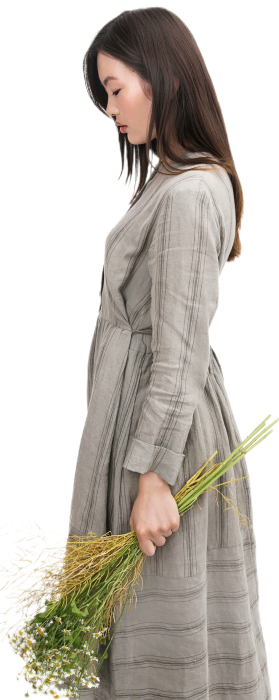
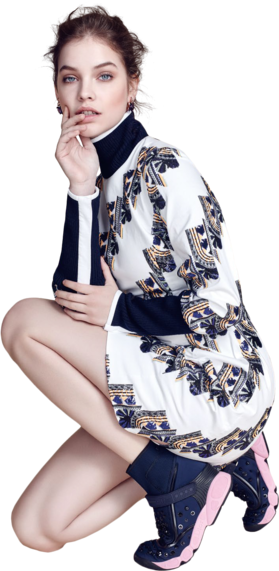
sonn

diff --git a/src/components/Header.js b/src/components/Header.js
@@ -5,7 +5,7 @@ import { CartContext } from '../contexts/CartContext';
 import { Link } from 'react-router-dom';
 import Logo from '../img/logo.svg'
 
-const Header = () => {
+const Header = ({theme, setTheme, handleThemeSwitch}) => {
   const [isActive, setIsActive] = useState(false)
   const {isOpen, setIsOpen} = useContext(SidebarContext)
   const {itemAmount} = useContext(CartContext)
@@ -15,20 +15,53 @@ const Header = () => {
     })
   })
   return (
-    <header className={`${isActive ? 'bg-white py-4 shadow-md ' : 'bg-none py-6'} fixed w-full z-10 transition-all `}>
+    <header className={`${isActive ? 'bg-gray-100 dark:bg-gray-900 py-4 shadow-md ' : 'bg-none py-6'} fixed w-full z-10 transition-all `}>
     <div className='container mx-auto flex items-center justify-between h-full'>
     <Link to={'/'}>
         <div >
           <img className='w-[40px] md:w-[45px]  lg:w-[50px] xl:w-[40px]  xxxl:w-[60px] ml-1' src={Logo} alt="" />
         </div>
       </Link>
+      <div>
+      <button onClick={handleThemeSwitch}>
+                        {theme === "light" ? 
+                        <svg
+                        v-if="dark"
+                        xmlns="http://www.w3.org/2000/svg"
+                        class="h-4.5 w-5 md:h-9.6 md:w-10"
+                        viewBox="0 0 20 20"
+                        fill="black"
+                      >
+                        <path
+                          d="M17.293 13.293A8 8 0 016.707 2.707a8.001 8.001 0 1010.586 10.586z"
+                        />
+                      </svg>
+                      :
+                      <svg
+                      v-else
+                      xmlns="http://www.w3.org/2000/svg"
+                      class="h-4.5 w-5  md:h-9.6 md:w-10"
+                      viewBox="0 0 20 20"
+                      fill="white"
+                    >
+                      <path
+                        fill-rule="evenodd"
+                        d="M10 2a1 1 0 011 1v1a1 1 0 11-2 0V3a1 1 0 011-1zm4 8a4 4 0 11-8 0 4 4 0 018 0zm-.464 4.95l.707.707a1 1 0 001.414-1.414l-.707-.707a1 1 0 00-1.414 1.414zm2.12-10.607a1 1 0 010 1.414l-.706.707a1 1 0 11-1.414-1.414l.707-.707a1 1 0 011.414 0zM17 11a1 1 0 100-2h-1a1 1 0 100 2h1zm-7 4a1 1 0 011 1v1a1 1 0 11-2 0v-1a1 1 0 011-1zM5.05 6.464A1 1 0 106.465 5.05l-.708-.707a1 1 0 00-1.414 1.414l.707.707zm1.414 8.486l-.707.707a1 1 0 01-1.414-1.414l.707-.707a1 1 0 011.414 1.414zM4 11a1 1 0 100-2H3a1 1 0 000 2h1z"
+                        clip-rule="evenodd"
+                      />
+                    </svg>
+                    }
+   
   
+  </button>
+      </div>
       <div onClick={() => setIsOpen(!isOpen)} className='cursor-pointer flex relative mr-3'>
-        <BsBag  className='text-[30px] md:text-[30px] lg:text-[30px] xl:text-[30px]  xxxl:text-[60px]' />
-        <div className='bg-red-500 absolute -right-1 sm:-right-1 md:-right-1 lg:-right-1 xl:-right-1 -bottom-2 xxl:-bottom-1 xxxl:-bottom-2 text-[12px] w-[18px] h-[18px] text-white rounded-full flex justify-center items-center xl:text-[16px] xl:w-[20px] xl:h-[20px]  xxxl:text-[28px] xxxl:w-[34px] xxxl:h-[34px]'>
+        <BsBag  className='text-[30px] md:text-[50px] lg:text-[50px] xl:text-[30px]  xxxl:text-[60px] dark:text-white' />
+        <div className='bg-red-500 absolute -right-1 sm:-right-1 md:-right-1 lg:-right-1 xl:-right-1 -bottom-2 xxl:-bottom-1 xxxl:-bottom-2 text-[12px] md:text-[22px] lg:text-[22px] w-[18px] h-[18px] md:w-[30px] md:h-[30px] lg:w-[23px] lg:h-[23px] text-white rounded-full flex justify-center items-center xl:text-[16px] xl:w-[20px] xl:h-[20px]  xxxl:text-[28px] xxxl:w-[34px] xxxl:h-[34px]'>
         {itemAmount}
         </div>
       </div>
+    
     </div>
     </header>
   )

diff --git a/src/contexts/ProductDetails.js b/src/contexts/ProductDetails.js
@@ -2,7 +2,8 @@ import React, { useContext } from 'react';
 import { useParams } from 'react-router-dom';
 import { ProductContext } from '../pages/ProductContext';
 import { CartContext } from './CartContext';
-
+import { MapInteractionCSS } from 'react-map-interaction';
+import { toast } from 'react-toastify';
 const ProductDetails = () => {
   const {id} = useParams()
   const {products} = useContext(ProductContext)
@@ -14,20 +15,27 @@ const ProductDetails = () => {
     return <section className='h-screen flex justify-center items-center'>Loading...</section>
   }
   const {title, price, description, image} = product
-  return <section className='my-32 xl:my-0 lg:py-32  h-screen flex items-center'>
-    <div className="container mx-auto">
-    <div className='flex flex-col lg:flex-row items-center'>
-    <div className='flex flex-1 justify-center items-center mb-8 lg:mb-0'>
-      <img className='max-w-[200px] lg:max-w-sm' src={image} alt="" />
+  return <section className='my-[200px]  lg:my-[100px] py-0 xl:my-0 h-screen flex items-center dark:bg-gray-700 '>
+    <div className="container mx-auto ">
+    <div className='flex flex-col lg:flex-row items-center '>
+   
+    <div className='flex flex-1 justify-center items-center mb-12 mt-12   lg:mb-0 '>
+    <MapInteractionCSS>
+      <img className='sm:w-[300px] md:w-[350px] lg:max-w-[300px] lg:ml-[50%] xxxl:ml-[100%]' src={image} alt="" />
+      </MapInteractionCSS>
     </div>
       <div className='flex-1 text-center lg:text-left '>
-        <h1 className='text-[20px] font-medium mb-2 max-w-[450px] mx-auto lg:mx-0 xl:text-[28px] xxl:text-[32px] xxxl:text-[42px]'>{title}</h1>
-        <div className='text-xl text-red-500 font-medium mb-6 xl:text-[27px] xxl:text-[29px] xxxl:text-[36px]'>$ {price}</div>
-        <p className='mb-8 text-sm lg:text-[16px] xl:text-[18px] xxl:text-[23px] xxxl:text-[34px] xxl:leading-7 xxxl:leading-9'>{description}</p>
-        <button onClick={() => addToCart(product, product.id)} className='bg-primary py-4 px-8 text-white text-sm xl:text-[20px] xxl:text-[22px] xxxl:text-[26px] xxxl:py-8 xxxl:px-16'>Add to cart</button>
+        <h1 className='text-[38px] font-medium mb-2 max-w-[450px] mx-auto md:text-[30px] lg:mx-0 xl:text-[28px] xxl:text-[32px] xxxl:text-[42px] dark:text-gray-300'>{title}</h1>
+        <div className='text-[38px] text-red-500 font-medium mb-6 xl:text-[27px] xxl:text-[29px] xxxl:text-[36px] dark:text-red-500'>$ {price}</div>
+        <p className='mb-8 text-[23px]  lg:text-[18px] xl:text-[18px] xxl:text-[23px] xxxl:text-[34px] xxl:leading-7 xxxl:leading-9 dark:text-gray-200'>{description}</p>
+        <button onClick={() => {
+          addToCart(product, product.id)
+         toast.success("Successfully added")}
+         } className='bg-primary py-4 px-8 text-white text-[38px] md:text-[26px] xl:text-[20px] xxl:text-[22px] xxxl:text-[26px] xxxl:py-8 xxxl:px-16 dark:bg-gray-200 dark:text-black'>Add to cart</button>
+      </div>
       </div>
     </div>
-    </div>
+  
   </section>;
 };
 

diff --git a/src/components/Sidebar.js b/src/components/Sidebar.js
@@ -5,31 +5,32 @@ import {SidebarContext} from '../contexts/SidebarContext'
 import { CartContext } from '../contexts/CartContext';
 import CartItem from './CartItem';
 import { Link } from 'react-router-dom';
+import { toast } from 'react-toastify';
 
 const Sidebar = () => {
   const {isOpen, handleClose} = useContext(SidebarContext)
   const {cart, clearCart, total, itemAmount} = useContext(CartContext)
   
-  return <div className={`${isOpen ? 'right-0' : '-right-full'} w-full bg-white fixed top-0 h-full shadow-2xl md:w-[45vw] xl:max-w-[30vw] transition-all duration-300 z-20 px-4 lg:px-[35px] overflow-auto xl:overflow-hidden`}>
+  return <div className={`${isOpen ? 'right-0' : '-right-full'} w-full bg-white fixed top-0 h-full shadow-2xl md:w-[45vw] xl:max-w-[35vw] transition-all duration-300 z-20 px-4 lg:px-[35px] overflow-auto  dark:bg-gray-600`}>
     <div className='flex items-center justify-between py-6 border-b'>
-    <div className='uppercase text-sm font-semibold'>Shopping Bag ({itemAmount})</div>
+    <div className='uppercase text-sm font-semibold dark:text-gray-200 md:text-[18px] xxxl:text-[24px]'>Shopping Bag ({itemAmount})</div>
       <div onClick={handleClose} className='cursor-pointer w-8 h-8 flex justify-center items-center '>
-        <IoMdArrowForward className='text-2xl' />
+        <IoMdArrowForward className='text-2xl dark:text-white' />
       </div>
     </div>
-    <div className='flex flex-col gap-y-2 h-[65%] md:h-[65%] lg:h-[55%] xl:h-[50%] xxl:h-[60%] xxxl:h-[65%] overflow-y-auto overflow-x-hidden border-b'>
+    <div className='flex flex-col gap-y-2  overflow-y-auto overflow-x-hidden border-b'>
     {cart.map(item => {
       return <CartItem item={item} key={item.id} />
     })}</div>
     <div className='flex flex-col gap-y-3 py-4 mt-4 '>
       <div className='flex w-full justify-between items-center '>
-        <div className='uppercase font-semibold'><span className='mr-2'>Total:</span>$ {parseFloat(total).toFixed(2)}</div>
+        <div className='uppercase font-semibold dark:text-gray-50 md:text-[18px] xxxl:text-[24px]'><span className='mr-2 dark:text-white'>Total:</span>$ {parseFloat(total).toFixed(2)}</div>
         <div onClick={clearCart} className='cursor-pointer py-4 bg-red-500 text-white w-12 h-12 flex justify-center items-center text-xl'>
         <FiTrash2 />
         </div>
       </div>
-      <Link to='/' className='bg-gray-200 flex p-4 justify-center items-center text-primary w-full font-medium '>View cart</Link>
-      <Link to='/' className='bg-primary flex p-4 justify-center items-center text-white w-full font-medium'>Checkout</Link>
+      <Link to='/' className='bg-gray-200 flex p-4 justify-center items-center text-primary w-full font-medium xxxl:text-[24px]'>View cart</Link>
+      <Link to='/' onClick={() => toast.error("Checkout is not avaliable yet")} className='bg-primary flex p-4 justify-center items-center text-white w-full font-medium xxxl:text-[24px]'>Checkout</Link>
     </div>
   </div>;
 };

diff --git a/src/components/Product.js b/src/components/Product.js
@@ -2,19 +2,23 @@ import React, { useContext } from 'react';
 import { Link} from 'react-router-dom'
 import {BsPlus, BsEyeFill} from 'react-icons/bs' 
 import { CartContext } from '../contexts/CartContext';
+import { toast } from 'react-toastify';
 
 const Product = ({product}) => {
   const {addToCart} = useContext(CartContext)
   const {id, image, category, title, price} = product
   return <div >
-  <div className='border border-[#e4e4e4] h-[300px] mb-4 relative overflow-hidden group transition '>
+  <div className='border border-[#e4e4e4] h-[300px] mb-4 relative overflow-hidden group transition dark:bg-white'>
     <div className='w-full h-full flex justify-center items-center '>
-    <div className='w-[200px] mx-auto flex justify-center items-center '>
-      <img className='max-h-[160px] group-hover:scale-110 transition duration-300' src={image} alt="" />
+    <div className='w-[200px] mx-auto flex justify-center items-center  '>
+      <img className='max-h-[160px] group-hover:scale-110 transition duration-300 ' src={image} alt="" />
     </div>
     </div>
-    <div className='absolute top-6 -right-11 group-hover:right-5 p-2 flex flex-col items-center justify-center gap-y-2 opacity-0 group-hover:opacity-100 transition-all duration-300'>
-      <button onClick={() => addToCart(product, id)}>
+    <div className='absolute top-6 lg:-right-11 lg:group-hover:right-5 p-2 flex flex-col items-center justify-center gap-y-2 lg:opacity-0 lg:group-hover:opacity-100  transition-all duration-300'>
+      <button onClick={ () => {
+        addToCart(product, id)
+        toast.success("Successfully added")}
+        }>
         <div className='flex justify-center items-center text-white w-12 h-12 bg-red-500'>
           <BsPlus className='text-3xl' />
         </div>
@@ -24,12 +28,12 @@ const Product = ({product}) => {
   </div>
 
     <div>
-     <div className='text-sm capitalize text-gray-500 mb-1'>{category}</div>
+     <div className='text-sm capitalize xxl:text-xl text-gray-500 mb-1 dark:text-gray-200 sm:text-[23px] lg:text-[14px]'>{category}</div>
      <Link to={`/product/${id}`}>
-      <h2 className='font-semibold mb-1 '>{title}</h2>
+      <h2 className='font-semibold mb-1 dark:text-gray-200 sm:text-[26px] md:text-[20px] lg:text-[16px] xxl:text-[18px]'>{title}</h2>
      </Link>
     
-      <div className='font-semibold '>$ {price}</div>
+      <div className='font-semibold dark:text-gray-200 sm:text-[28px] md:text-[24px] lg:text-[16px]  xxl:text-[18px]'>$ {price}</div>
     </div>
      
   </div>;

diff --git a/src/components/CartItem.js b/src/components/CartItem.js
@@ -14,25 +14,25 @@ const CartItem = ({item}) => {
         </Link>
         <div className='w-full flex flex-col'>
           <div className='flex justify-between mb-2'>
-            <Link to={`/product/${id}`} className='text-sm uppercase font-medium max-w-[240px] text-primary hover:underline'>
+            <Link to={`/product/${id}`} className='text-sm uppercase font-medium max-w-[240px] text-primary hover:underline dark:text-white md:text-[18px]'>
               {title}
             </Link>
             <div onClick={() => removeFromCart(id)} className='text-xl cursor-pointer'>
-              <IoMdClose className='text-gray-500 hover:text-red-500 transition' />
+              <IoMdClose className='text-gray-500 hover:text-red-500 transition dark:text-white' />
             </div>
           </div>
           <div className='flex gap-x-2 h-[36px] text-sm'>
             <div className='flex flex-1 max-w-[100px] items-center h-full border text-primary font-medium'>
             <div onClick={() => decreaseAmount(id)} className='flex-1 h-full flex justify-center items-center cursor-pointer '>
-            <IoMdRemove />
+            <IoMdRemove className='dark:text-white xxxl:text-[24px]' />
             </div>
-            <div className='h-full flex justify-center items-center px-2'>{amount}</div>
+            <div className='h-full flex justify-center items-center px-2 dark:text-gray-100 md:text-[18px] xxxl:text-[22px]'>{amount}</div>
              <div onClick={() => increaseAmount(id)} className='flex-1 h-full flex justify-center items-center cursor-pointer'>
-            <IoMdAdd />
+            <IoMdAdd className='dark:text-white xxxl:text-[24px]' />
             </div>
             </div>
-            <div className='flex-1 flex items-center justify-around'>${price}</div>
-            <div className='flex-1 flex justify-end items-center text-primary font-medium'>{`$ ${parseFloat(price * amount).toFixed(2)}`}</div>
+            <div className='flex-1 flex items-center justify-around dark:text-gray-100 md:text-[18px] xxxl:text-[24px]'>${price}</div>
+            <div className='flex-1 flex justify-end items-center text-primary font-medium dark:text-gray-200 md:text-[18px] xxxl:text-[24px]'>{`$ ${parseFloat(price * amount).toFixed(2)}`}</div>
 
           </div>
         </div>

diff --git a/src/components/Hero.js b/src/components/Hero.js
@@ -1,24 +1,25 @@
 import React from 'react';
 import WomanImg from '../img/woman_hero.png'
+import model from '../img/model.png'
 
 
-const Hero = () => {
-  return <section className='h-[500px] lg:h-[800px] bg-lightImg bg-no-repeat bg-cover  bg-center py-24 '>
+const Hero = ({theme}) => {
+  return <section className='h-[500px] lg:h-[800px] bg-lightImg dark:bg-darkImg bg-no-repeat bg-cover  bg-center py-24 '>
     <div className="container mx-auto flex justify-around h-full">
       <div className='flex flex-col justify-center'>
-        <div className='font-semibold flex items-center uppercase flex-col '>
-          <div className='w-10 h-[2px] bg-red-500 mr-3'> </div> <div className='animatecss animatecss-fadeInLeft 	animatecss-slow '>New Trend</div> 
-          <h1 className='text-[30px] md:text-[50px] lg:text-[70px] leading-[1.1] font-light mb-4 py-3 lg:py-0 animatecss animatecss-fadeIn 	animatecss-slow   '>
+        <div className='font-semibold flex items-center uppercase flex-col dark:text-white'>
+          <div className='w-10 h-[2px] bg-red-500 dark:bg-white mr-3'> </div> <div className='animatecss animatecss-fadeInLeft 	animatecss-slow '>New Trend</div> 
+          <h1 className='text-[30px] md:text-[50px] lg:text-[70px] leading-[1.1] font-light mb-4 py-3 lg:py-0 animatecss animatecss-fadeIn 	animatecss-slow  '>
             AUTUMN SALE STYLISH <br />
             <span className='font-semibold'>WOMENS</span>
           </h1>
-          <a  href='#home'  className=' uppercase font-semibold border-b-2 border-primary animatecss animatecss-fadeInRight 	animatecss-slow '>
+          <a  href='#home'  className=' uppercase font-semibold border-b-2 border-primary dark:border-white animatecss animatecss-fadeInRight 	animatecss-slow '>
             Discover more
           </a>
         </div>
       </div>
-      <div className='hidden lg:block'>
-        <img src={WomanImg} alt="" />
+      <div className='hidden lg:block '>
+        <img src={theme === 'light' ? model : WomanImg} alt="" className='h-[700px]' />
       </div>
     </div>
   </section>;

diff --git a/src/App.js b/src/App.js
@@ -1,22 +1,58 @@
-import React from 'react';
+import React, { useEffect, useState } from 'react';
 import { Route, BrowserRouter as Router, Routes } from 'react-router-dom';
 import Home from './pages/Home';
 import Header from './components/Header';
 import Footer from './components/Footer';
 import Sidebar from './components/Sidebar';
 import ProductDetails from './contexts/ProductDetails';
+import { ToastContainer } from 'react-toastify';
+import 'react-toastify/dist/ReactToastify.css';
 
 const App = () => {
-  return <div className='overflow-hidden'>
+  const [theme, setTheme] = useState(null);
+
+  useEffect(() => {
+    if(window.matchMedia('(prefers-color-scheme: dark)').matches){
+      setTheme('dark');
+    }
+    else {
+      setTheme('light');
+    }
+  }, [])
+  useEffect(() => {
+    if (theme === "dark") {
+      document.documentElement.classList.add("dark");
+    } else {
+      document.documentElement.classList.remove("dark");
+    }
+  }, [theme]);
+
+  const handleThemeSwitch = () => {
+    setTheme(theme === "dark" ? "light" : "dark");
+  };
+
+  return <div className='overflow-hidden dark:bg-gray-700'>
     <Router>
-    <Header />
+    <Header handleThemeSwitch={handleThemeSwitch} theme={theme} setTheme={setTheme} />
       <Routes>
-        <Route path='/'  element={<Home />} />
+        <Route path='/'  element={<Home theme={theme} />} />
         <Route path='/product/:id' element={<ProductDetails />} />
       </Routes>
       <Sidebar />
       <Footer />
     </Router>
+    <ToastContainer
+        position="bottom-center"
+        autoClose={5000}
+        hideProgressBar={false}
+        newestOnTop={false}
+        closeOnClick
+        rtl={false}
+        pauseOnFocusLoss
+        draggable
+        pauseOnHover
+        theme="dark"
+      />
   </div>;
 };
 

diff --git a/src/pages/Home.js b/src/pages/Home.js
@@ -4,17 +4,17 @@ import Product from '../components/Product';
 import Hero from '../components/Hero';
 import { ProductContext } from './ProductContext';
 
-const Home = () => {
+const Home = ({theme}) => {
   const {products} = useContext(ProductContext)
   const filteredProducts = products.filter(item => {
     return item.category === "men's clothing" || item.category === "women's clothing"
   })
  
   return <div>
-  <Hero />
-    <section className='py-16' id="home">
-      <div className="container mx-auto">
-        <div className='grid grid-cols-1 md:grid-cols-2 lg:grid-cols-4 xl:grid-cols-5 gap-[30px] max-w-sm mx-auto md:max-w-none md:mx-0 mt-4'>
+  <Hero theme={theme} />
+    <section className='py-16 dark:bg-gray-700' id="home">
+      <div className="container mx-auto ">
+        <div className='grid grid-cols-1 md:grid-cols-2 lg:grid-cols-4 xl:grid-cols-5 gap-[30px] max-w-sm mx-auto md:max-w-none md:mx-0 mt-4 '>
           
           {filteredProducts.map((product) => {
             return <Product product={product} key={product.id} /> 

diff --git a/src/components/Footer.js b/src/components/Footer.js
@@ -1,9 +1,9 @@
 import React from 'react';
 
 const Footer = () => {
-  return <footer className='bg-primary py-12'>
+  return <footer className='bg-gray-100 dark:bg-gray-900 py-12'>
     <div className="container mx-auto">
-      <p className='text-white text-center '>Copyright &copy; Vasif Babazade 2023. All rights reserved.</p>
+      <p className='text-black dark:text-white text-center sm:text-[24px] md:text-[20px]'>Copyright &copy; Vasif Babazade 2023. All rights reserved.</p>
     </div>
   </footer>;
 };

diff --git a/tailwind.config.js b/tailwind.config.js
@@ -1,4 +1,5 @@
 module.exports = {
+  darkMode: ['class'],
   content: ['./src/**/*.{js,jsx,ts,tsx}'],
   theme: {
     fontFamily: {
@@ -26,6 +27,7 @@ module.exports = {
       backgroundImage: {
         hero: "url('./img/bg_hero.svg')",
         lightImg: "url('./img/bg_light.jpg')",
+        darkImg: "url('./img/bg_dark.jpg')",
       },
     },
   },
